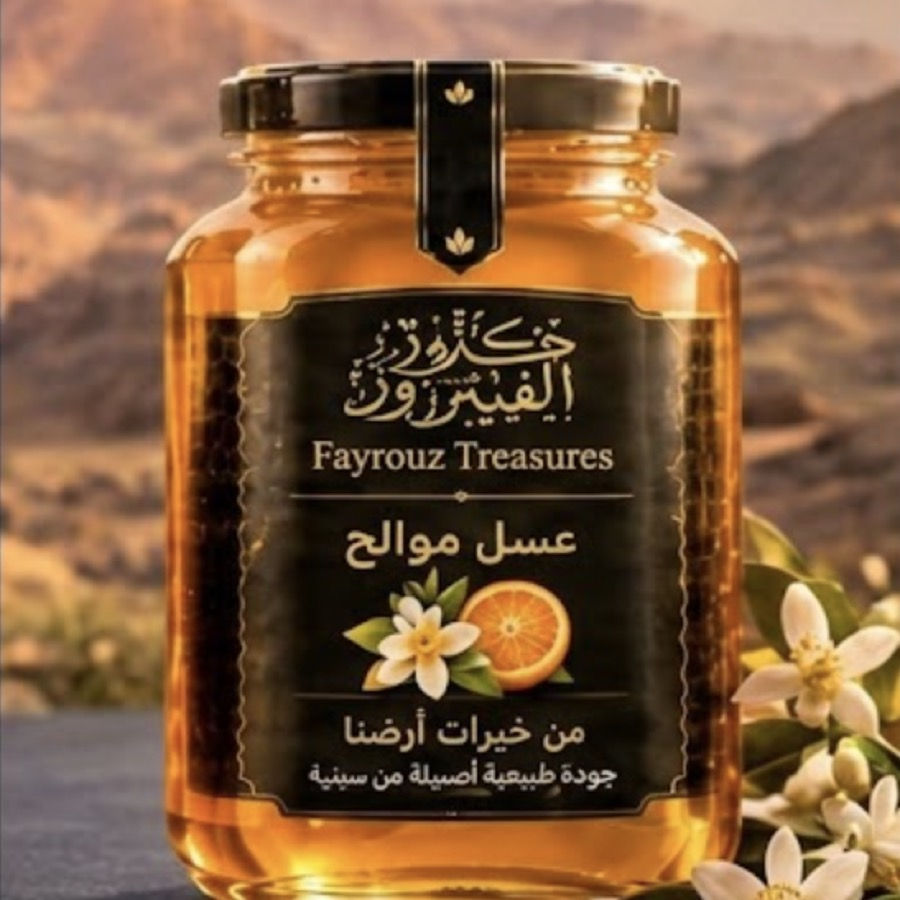
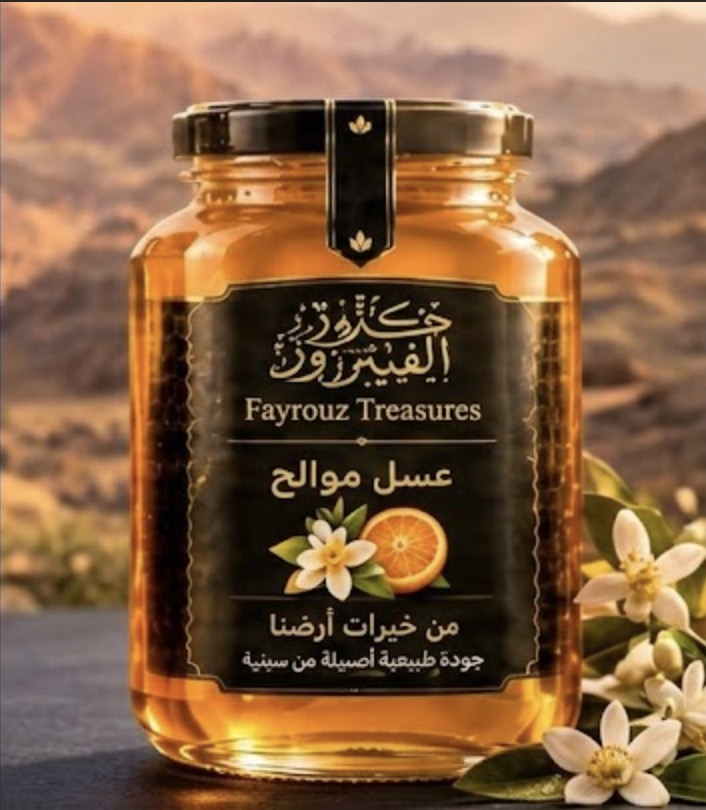
Update olive oil description, fix pixelated/cropped PDP product photos
Olive oil: replaced the description paragraphs with the new copy
provided (sourced "from our farms" instead of "Sinai olives", minor
wording simplification), and synced meta/og/twitter/JSON-LD
descriptions to match.

PDP photos (all 4 products): the hero images were being upscaled from
smaller square crops up to a forced 900x900, which both pixelated them
and cropped off part of the bottle/jar (cap, bottom text). Replaced
all four with the full, uncropped source photos at their native
resolution (no upscaling), and changed .pdp-gallery img in theme.css
from a fixed 1:1 object-fit:cover crop to width:100%/height:auto with
object-fit:contain so the whole product is visible at native sharpness.
Card thumbnails (480x480 square crops, used in the product grid) are
unaffected - those were already downscaled from larger originals and
aren't pixelated.

diff --git a/kunoz-olive-oil.html b/kunoz-olive-oil.html
@@ -21,7 +21,7 @@ src="https://www.facebook.com/tr?id=2165511077625659&ev=PageView&noscript=1"
 <meta charset="UTF-8">
 <meta name="viewport" content="width=device-width, initial-scale=1.0">
 <title>زيت زيتون بكر – كنوز الفيروز</title>
-<meta name="description" content="زيت زيتون بكر من كنوز الفيروز — زيت زيتون بكر عضوي، معصور على البارد من زيتون سيناء — طبيعي 100% وبدون أي إضافات. اطلب الآن بدفع عند الاستلام.">
+<meta name="description" content="زيت زيتون بكر من كنوز الفيروز — زيت زيتون بكر ممتاز، معصور على البارد من مزارعنا، طبيعي 100% وبدون أي إضافات. اطلب الآن بدفع عند الاستلام.">
 <meta name="robots" content="index, follow">
 <link rel="canonical" href="https://kunoz-elfayrouz.com/kunoz-olive-oil.html">
[1 lines of base64/hex data omitted]
@@ -30,12 +30,12 @@ src="https://www.facebook.com/tr?id=2165511077625659&ev=PageView&noscript=1"
 <meta property="og:site_name" content="كنوز الفيروز">
 <meta property="og:locale" content="ar_EG">
 <meta property="og:title" content="زيت زيتون بكر – كنوز الفيروز">
-<meta property="og:description" content="زيت زيتون بكر من كنوز الفيروز — زيت زيتون بكر عضوي، معصور على البارد من زيتون سيناء — طبيعي 100% وبدون أي إضافات. اطلب الآن بدفع عند الاستلام.">
+<meta property="og:description" content="زيت زيتون بكر من كنوز الفيروز — زيت زيتون بكر ممتاز، معصور على البارد من مزارعنا، طبيعي 100% وبدون أي إضافات. اطلب الآن بدفع عند الاستلام.">
 <meta property="og:url" content="https://kunoz-elfayrouz.com/kunoz-olive-oil.html">
 <meta property="og:image" content="https://kunoz-elfayrouz.com/images/olive-oil.jpg">
 <meta name="twitter:card" content="summary_large_image">
 <meta name="twitter:title" content="زيت زيتون بكر – كنوز الفيروز">
-<meta name="twitter:description" content="زيت زيتون بكر من كنوز الفيروز — زيت زيتون بكر عضوي، معصور على البارد من زيتون سيناء — طبيعي 100% وبدون أي إضافات. اطلب الآن بدفع عند الاستلام.">
+<meta name="twitter:description" content="زيت زيتون بكر من كنوز الفيروز — زيت زيتون بكر ممتاز، معصور على البارد من مزارعنا، طبيعي 100% وبدون أي إضافات. اطلب الآن بدفع عند الاستلام.">
 <meta name="twitter:image" content="https://kunoz-elfayrouz.com/images/olive-oil.jpg">
 <link rel="preconnect" href="https://fonts.googleapis.com">
 <link rel="preconnect" href="https://fonts.gstatic.com" crossorigin>
@@ -50,7 +50,7 @@ src="https://www.facebook.com/tr?id=2165511077625659&ev=PageView&noscript=1"
   "@type": "Product",
   "name": "زيت زيتون بكر",
   "image": "https://kunoz-elfayrouz.com/images/olive-oil.jpg",
-  "description": "زيت زيتون بكر عضوي، معصور على البارد من زيتون سيناء — طبيعي 100% وبدون أي إضافات.",
+  "description": "زيت زيتون بكر ممتاز، معصور على البارد من مزارعنا، طبيعي 100% وبدون أي إضافات.",
   "brand": { "@type": "Brand", "name": "كنوز الفيروز" },
   "offers": {
     "@type": "Offer",
@@ -87,7 +87,7 @@ src="https://www.facebook.com/tr?id=2165511077625659&ev=PageView&noscript=1"
 
 <div class="pdp-wrap">
   <div class="pdp-gallery reveal">
-    <img src="images/olive-oil.jpg" alt="زيت زيتون بكر - كنوز الفيروز" id="pdpImg" fetchpriority="high" width="900" height="900">
+    <img src="images/olive-oil.jpg" alt="زيت زيتون بكر - كنوز الفيروز" id="pdpImg" fetchpriority="high" width="843" height="1264">
   </div>
   <div class="pdp-info reveal">
     <div class="breadcrumb">كنوز الفيروز | زيت الزيتون</div>
@@ -131,7 +131,7 @@ src="https://www.facebook.com/tr?id=2165511077625659&ev=PageView&noscript=1"
     </div>
 
     <div class="pdp-desc">
-      <p>زيت زيتون بكر عضوي، معصور على البارد من زيتون سيناء — طبيعي 100% وبدون أي إضافات.</p><p>نكهة غنية وحموضة منخفضة، مثالي للسلطات والطبخ اليومي.</p><p>من أهم فوائد زيت الزيتون البكر أنه غني بمضادات الأكسدة ومفيد لصحة القلب عند استخدامه يومياً.</p>
+      <p>زيت زيتون بكر ممتاز، معصور على البارد من مزارعنا، طبيعي 100% وبدون أي إضافات.</p><p>نكهة غنية وحموضة منخفضة، مثالي للاستخدام اليومي.</p><p>من أهم فوائد زيت الزيتون البكر أنه غني بمضادات الأكسدة ومفيد لصحة القلب عند استخدامه يومياً.</p>
     </div>
     <ul class="pdp-includes">
       <li>زيت زيتون بكر عضوي</li><li>معصور على البارد</li><li>شحن لجميع المحافظات</li><li>دفع عند الاستلام</li>

diff --git a/theme.css b/theme.css
@@ -254,7 +254,7 @@ nav {
 
 /* ---------- PDP ---------- */
 .pdp-wrap { display: grid; grid-template-columns: 1fr 1fr; gap: 52px; max-width: 1120px; margin: 0 auto; padding: 150px 24px 60px; }
-.pdp-gallery img { border-radius: 14px; width: 100%; aspect-ratio: 1/1; object-fit: cover; box-shadow: var(--shadow); }
+.pdp-gallery img { border-radius: 14px; width: 100%; height: auto; display: block; object-fit: contain; box-shadow: var(--shadow); }
 .breadcrumb { font-size: 0.78rem; color: var(--text-faint); margin-bottom: 12px; font-weight: 700; }
 .pdp-info h1 { font-size: clamp(1.6rem, 3.6vw, 2.2rem); font-weight: 800; margin-bottom: 14px; color: var(--black); }
 .pdp-price-row { display: flex; align-items: baseline; gap: 12px; margin-bottom: 16px; }

diff --git a/kunoz-honey.html b/kunoz-honey.html
@@ -87,7 +87,7 @@ src="https://www.facebook.com/tr?id=2165511077625659&ev=PageView&noscript=1"
 
 <div class="pdp-wrap">
   <div class="pdp-gallery reveal">
-    <img src="images/honey-nigella.jpg" alt="عسل حبة البركة - كنوز الفيروز" id="pdpImg" fetchpriority="high" width="900" height="900">
+    <img src="images/honey-nigella.jpg" alt="عسل حبة البركة - كنوز الفيروز" id="pdpImg" fetchpriority="high" width="666" height="816">
   </div>
   <div class="pdp-info reveal">
     <div class="breadcrumb">كنوز الفيروز | عسل طبيعي</div>

diff --git a/kunoz-honey-mawalih.html b/kunoz-honey-mawalih.html
@@ -87,7 +87,7 @@ src="https://www.facebook.com/tr?id=2165511077625659&ev=PageView&noscript=1"
 
 <div class="pdp-wrap">
   <div class="pdp-gallery reveal">
-    <img src="images/honey-citrus.jpg" alt="عسل الموالح - كنوز الفيروز" id="pdpImg" fetchpriority="high" width="900" height="900">
+    <img src="images/honey-citrus.jpg" alt="عسل الموالح - كنوز الفيروز" id="pdpImg" fetchpriority="high" width="706" height="810">
   </div>
   <div class="pdp-info reveal">
     <div class="breadcrumb">كنوز الفيروز | عسل طبيعي</div>

diff --git a/kunoz-honey-pure.html b/kunoz-honey-pure.html
@@ -87,7 +87,7 @@ src="https://www.facebook.com/tr?id=2165511077625659&ev=PageView&noscript=1"
 
 <div class="pdp-wrap">
   <div class="pdp-gallery reveal">
-    <img src="images/honey-raw.jpg" alt="عسل خام - كنوز الفيروز" id="pdpImg" fetchpriority="high" width="900" height="900">
+    <img src="images/honey-raw.jpg" alt="عسل خام - كنوز الفيروز" id="pdpImg" fetchpriority="high" width="632" height="804">
   </div>
   <div class="pdp-info reveal">
     <div class="breadcrumb">كنوز الفيروز | عسل طبيعي</div>
